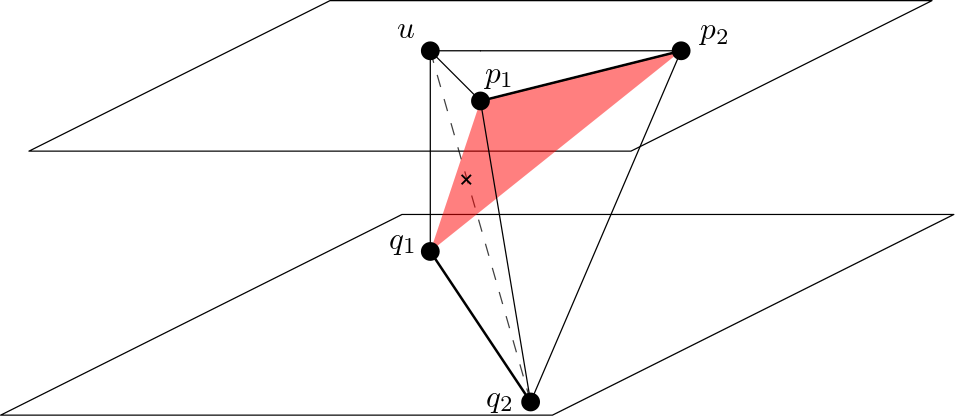
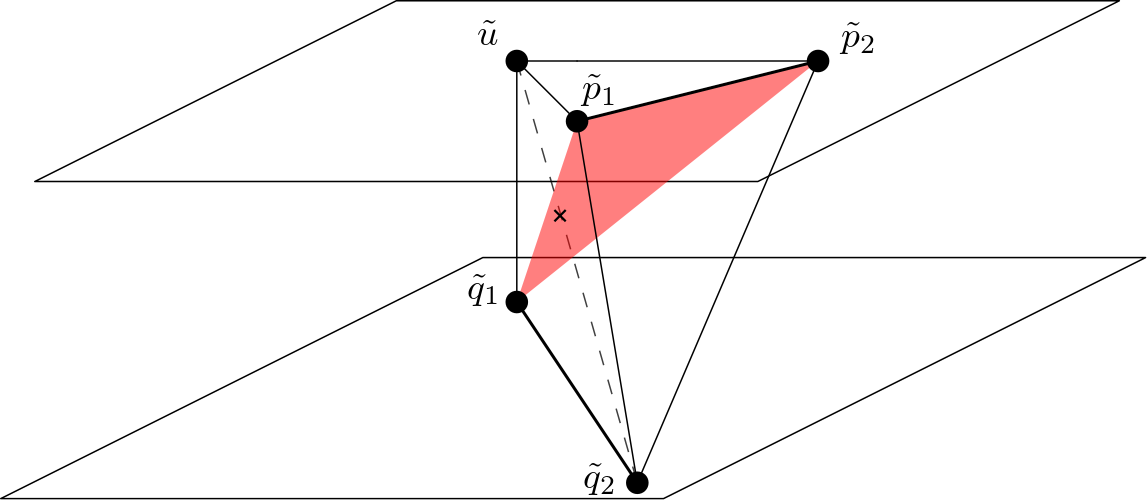
finished a pass with review Y

diff --git a/unimodular-covers-CombTheory-reviewing.tex b/unimodular-covers-CombTheory-reviewing.tex
@@ -128,7 +128,8 @@ We show that the following classes of lattice polytopes have unimodular covers, 
 
 \section{Introduction}
 
-A lattice polytope $P\subset \R^d$ has the \emph{integer decomposition property} if for every positive integer $n$, every lattice point $p \in nP\cap \Z^d$ can be written as a sum of $n$ lattice points in $P$. We abbreviate this by saying that ``$P$ is IDP''. Being IDP is interesting in the context of  both enumerative combinatorics (Ehrhart theory) and algebraic geometry (normality of toric varieties). It falls into a hierarchy of several properties each stronger than the previous one; see, e.g., \cite[Section 2.D]{BGbook}, \cite[Sect. 1.2.5]{HPPS-survey}, \cite[p. 2097]{mfo2004}, \cite[p. 2313]{mfo2007}.
+A lattice polytope $P\subset \R^d$ has the \emph{integer decomposition property} if for every positive integer $n$, every lattice point $p \in nP\cap \Z^d$ can be written as a sum of $n$ lattice points in $P$. We abbreviate this by saying that ``$P$ is IDP''. Being IDP is interesting in the context of  both enumerative combinatorics (Ehrhart theory) and algebraic geometry (projective normality of toric
+varieties). It falls into a hierarchy of several properties each stronger than the previous one; see, e.g., \cite[Section 2.D]{BGbook}, \cite[Sect. 1.2.5]{HPPS-survey}, \cite[p. 2097]{mfo2004}, \cite[p. 2313]{mfo2007}.
 Let us here only mention that
 \[
 P \text{ has a unimodular triangulation}\Rightarrow
@@ -160,8 +161,8 @@ Every smooth lattice polytope is IDP.
 \end{enumerate}
 \end{conjecture}
 
-When the normal fan of a polytope $Q$ refines that of another polytope $P$, as in the second conjecture, we say that $P$ \emph{is a weak Minkowski summand of $Q$}, since this is easily seen to be equivalent to the existence of a polytope $P'$ such that $P+P' = k Q$ for some dilation constant $k>0$.
-This property has the following algebraic implication for the projective toric variety $X_Q$: $P$ is a weak Minkowski summand of $Q$ if and only if the Cartier divisor defined by $P$ on  $X_Q$ is \emph{numerically effective}, or ``nef'' (see~\cite[Cor.~6.2.15, Prop.~6.3.12]{CLS}, but observe that what we here call  ``weak Minkowski summand'' is simply called ``Minkowski summand'' there). 
+When the normal fan of a polytope $Q$ refines that of another polytope $P$, as in the second conjecture, we say that $P$ \emph{is a weak Minkowski summand of $Q$}, since this is easily seen to be equivalent to the existence of a polytope $P'$ such that $P+P' = k Q$ for some dilation constant $k>0$. \Giulia{RefY says to add the definition of Minkowski sum here, rather than have the definition in section 3; I think it would break up the flow of the introduction. Perhaps a compromise is to add a comment like, "where + denotes the Minkowski sum defined in Section 3". Then again, the Cayley sum is defined both later in the intro and in section 3. What do you think?}
+This property has the following algebraic implication for the projective toric variety $X_Q$: $P$ is a weak Minkowski summand of $Q$ if and only if the Cartier divisor defined by $P$ on  $X_Q$ is \emph{numerically effective}, or ``nef'' (see~\cite[Cor.~6.2.15, Thm.~6.3.12]{CLS}, but observe that what we here call  ``weak Minkowski summand'' is called ``$\N$-Minkowski summand'' there). 
 
 
 \medskip 
@@ -171,7 +172,7 @@ with special attention to dimension $3$ (in dimension 2 is it straightforward th
 For example,  very recently
 Beck et al.~\cite{BHHHJKM2019} proved that all smooth centrally symmetric $3$-polytopes are IDP.
 More precisely, they show that any such polytope can be covered by lattice 
-parallelepipeds and unimodular simplices, both of which are trivially IDP.
+parallelepipeds (affine images of $3$-cubes) and unimodular simplices, both of which are trivially IDP.
 %
 In \Cref{sec:parallelepipeds} we show:
 
@@ -204,9 +205,9 @@ The two-dimensional case of \Cref{conj:Oda}\eqref{itm:mixedIDP} is known to hold
 An alternative approach to \Cref{conj:Oda}\eqref{itm:mixedIDP} is via Cayley sums, which we discuss in  \Cref{sec:cayley}. 
 Recall that the \emph{Cayley sum} of two lattice polytopes $P,Q\subset \R^d$ is the lattice polytope
 \[
-\cayley(P,Q) := \conv(P\times\{0\} \cup Q \times \{1\}) \subset \R^3.
+\cayley(P,Q) := \conv(P\times\{0\} \cup Q \times \{1\}) \subset \R^{d+1}.
 \]
-We normally require $\cayley(P,Q)$ to be full-dimensional (otherwise we can delete coordinates) but this does not need $P$ and $Q$ to be full-dimensional. It only requires the linear subspaces parallel to them to span $\R^d$.
+We normally require $\cayley(P,Q)$ to be full-dimensional (otherwise we can delete coordinates) but $P$ or $Q$ do not necessarily need to be fulldimensional. We only require the linear subspaces parallel to them to span $\R^d$.
 
 As we note in \Cref{prop:mixedIDP}, if the Cayley sum of $P$ and $Q$ is IDP then the pair $(P,Q)$ is IDP.
 Hence, the following statement proved in \Cref{sec:cayley} is stronger than the afore-mentioned result of \cite{Fakhruddin,HNPS2008,Ogata}:
@@ -239,13 +240,13 @@ The main tool for the proof of \Cref{thm:parallelepipeds} is what we call the pa
 
 \begin{definition}
 \label{def:circunpara}
-Let $T$ be a tetrahedron with vertices $p_1$, $p_2$, $p_3$, and $p_4$. Consider the points $q_i= \frac12 (p_1+p_2+p_3+p_4) - p_i$, $i\in [4]$, and let
+Let $T$ be a tetrahedron with vertices $p_1$, $p_2$, $p_3$, and $p_4$. Consider the points $q_i= \frac12 (p_1+p_2+p_3+p_4) - p_i$ for each $i\in \{1,2,3,4\}$, and let
 \[
-C(T)=\conv(p_i,q_i: i\in[4]).
+C(T)=\conv(p_i,q_i: i\in\{1,2,3,4\}).
 \] 
-$C(T)$ is a parallelepiped with facets $\conv(p_i, p_j, q_k, q_l)$ for all choices of $\{i,j,k,l\}=[4]$. We call it the \emph{parallelepiped circumscribed} to $T$.
+$C(T)$ is a parallelepiped with facets $\conv(p_i, p_j, q_k, q_l)$ for all choices of $\{i,j,k,l\}=\{1,2,3,4\}$. We call it the \emph{parallelepiped circumscribed} to $T$.
 
-For each $i \in [4]$, let $T_i=\conv(q_i, p_j, p_k, p_l)$, with $\{i,j,k,l\}=[4]$; we call these $T_i$ the \emph{corner tetrahedra} of $C(T)$. Together with $T$ they triangulate $C(T)$.
+For each $i \in \{1,2,3,4\}$, let $T_i=\conv(q_i, p_j, p_k, p_l)$, with $\{i,j,k,l\}=\{1,2,3,4\}$; we call the $T_i$ \emph{corner tetrahedra} of $C(T)$. Together with $T$ they triangulate $C(T)$.
 \end{definition}
 
 Modulo an affine transformation, the situation of $T$ and $C(T)$ is exactly that of the regular tetrahedron inscribed in a cube; see \Cref{fig:circumscribed_parall}. 
@@ -256,6 +257,7 @@ Modulo an affine transformation, the situation of $T$ and $C(T)$ is exactly that
 \label{fig:circumscribed_parall}
 \end{figure}
 
+Observe that the points $q_i$ need not be lattice points. However, the following lemma shows that we can find lattice points in each corner tetrahedron.
 \begin{lemma}
 \label{lemma:corner}
 Let $T=\conv\{p_1,p_2,p_3,p_4\}$ be an empty lattice tetrahedron that is not unimodular. Let $C(T)$ be the parallelepiped circumscribed to $T$ and let $T_1, T_2,T_3$ and $T_4$ be the corresponding corner tetrahedra in $C(T)$. Then, every $T_i$ contains at least one lattice point different from $\{p_1,\dots,p_4\}$.
@@ -291,13 +293,13 @@ Now, this implies that the quadrilateral $\conv(p_1q_4p_2q_3)$ contains a fundam
 
 \begin{lemma}
 \label{lemma:3<4}
-Let $P$ be a lattice parallelepiped and let $T\subset P$ be a tetrahedron. Then, at least one of the four corner tetrahedra $T_i$ of the circumscribed parallelogram $C(T)$ is fully contained in $P$.
+Let $P$ be a lattice parallelepiped and let $T\subset P$ be a tetrahedron. Then, at least one of the four corner tetrahedra $T_i$ of the circumscribed parallelepiped $C(T)$ is fully contained in $P$.
 \end{lemma}
 
 \begin{proof}
 Let us denote the vertices of $T$ by $p_1, p_2, p_3, p_4$ and the vertices of $C(T)$ not in $T$ by $q_1, q_2, q_3, q_4$, with the conventions of \Cref{def:circunpara}. 
 
-We call \emph{band} any region of the form $f^{-1}([\alpha,\beta])$ for some functional $f\in (\R^3)^*$ and closed interval $[\alpha,\beta]\subset \R$.
+We call \emph{band} any region of the form $f^{-1}([\alpha,\beta])$ for some functional $f\in (\R^3)^*\setminus \{0\}$ and closed interval $[\alpha,\beta]\subset \R$.
 We claim that any band containing $T$ must contain at least three of the $q_i$s. 
 This claim implies that the parallelepiped $P$, which is the intersection of three bands, contains at least one of the $q_i$s and hence it fully contains the corresponding $T_i$.
 
@@ -307,7 +309,7 @@ Without loss of generality, say $f(q_1)<\alpha$. Then the equalities $q_1+q_2=p_
 \label{eq:first}
 f(q_2) = f(p_3+p_4-q_1) = f(p_3)+f(p_4)-f(q_1) > 2\alpha-\alpha=\alpha,\\
 \label{eq:second}
-f(q_2) = f(q_2+p_2-p_1) = f(q_2)+(f(p_2)-f(p_1)) < \alpha + (\beta-\alpha) = \beta,
+f(q_2) = f(q_1+p_1-p_2) = f(q_1)+(f(p_1)-f(p_2)) < \alpha + (\beta-\alpha) = \beta,
 \end{gather}
 so that $q_2 \in B$.
 
@@ -317,13 +319,13 @@ Inequality \eqref{eq:first} also implies
 f(q_1) <  f(p_i) < f(q_2), \quad\text{ for $i=3,4$}.
 \end{equation}
 
-The translation of vector $\frac12 (p_1+p_2-p_3-p_4)$ sends $q_1,q_2,p_3,p_4$ to $p_2,p_1,q_4,q_3$ (in this order). By applying this to inequality \eqref{eq:third}, we obtain
+The translation by the vector $\frac12 (p_1+p_2-p_3-p_4)$ sends $q_1,q_2,p_3,p_4$ to $p_2,p_1,q_4,q_3$ (in this order). By applying this to inequality \eqref{eq:third}, we obtain
 \[
 \alpha \le f(p_2) < f(q_i) < f(p_1) \le \beta, \quad\text{ for $i=3,4$},
 \]
 so that $q_3,q_4 \in B$.
 %
-This finishes the proof of the claim, and of the lemma.
+This concludes the proof of the claim, and of the lemma.
 
 \end{proof}
 
@@ -332,7 +334,7 @@ This finishes the proof of the claim, and of the lemma.
 \label{coro:coverpara}
 Let $T$ be an empty lattice tetrahedron contained in a lattice parallelepiped $P$. Then, $T$ can be covered by unimodular tetrahedra contained in $P$.
 \end{corollary}
-
+\giulia{I would ignore comment Y.16, where if I understand correctly a different proof idea is suggested...}
 \begin{proof}
 We proceed by induction on the (normalized) volume of $T$, which is a positive integer. If this volume equals $1$ then $T$ is unimodular and there is nothing to prove, so we assume $T$ is not unimodular. Let $p_1, p_2, p_3, p_4$ denote the vertices of $T$.
 
@@ -345,7 +347,7 @@ S_2=\conv(p_1,p_3,p_4, u),
 S_3=\conv(p_1,p_2,p_4, u).
 \]
 
-Each of the tetrahedra $S_i$ has lattice volume strictly smaller than $T$ because, for each $i$, $p_i$ is the unique point of $C(T)$ maximizing the distance to the opposite facet $\conv(p_j,p_k,p_l)$ of $T$. Thus, $S_1$, $S_2$ and $S_3$ cover $T$ and have volume strictly smaller than $T$. The $S_i$ may not be empty, but we can triangulate them into empty tetrahedra, which by inductive hypothesis they can be covered unimodularly.
+Each of the tetrahedra $S_i$ has lattice volume strictly smaller than $T$ because, for each $i$, $p_i$ is the unique point of $C(T)$ maximizing the distance to the opposite facet $\conv(p_j,p_k,p_l)$ of $T$. Thus, $S_1$, $S_2$ and $S_3$ cover $T$ and have volume strictly smaller than $T$. The $S_i$ may not be empty, but we can triangulate them into empty tetrahedra, which by inductive hypothesis can be covered unimodularly.
 \end{proof}
 
 \begin{proof}[Proof of \Cref{thm:parallelepipeds}]
@@ -357,14 +359,14 @@ Let us say that a lattice $3$-polytope $P$ \emph{has the circumscribed parallele
 contained in $P$''. 
 If this holds then $P$ has a unimodular cover, since then the proofs of \Cref{coro:coverpara} and \Cref{thm:parallelepipeds} work for $P$.
 In turn, our proof that parallelepipeds have the property (\Cref{lemma:3<4}) is based on the fact that they have only three (pairs of) normal vectors. 
-In the following two examples we show a smooth $3$-polytope and two $3$-polytope with four normal vectors that do not have the property. The latter are not IDP:
+In the following two examples we show a smooth $3$-polytope and two $3$-polytopes with four normal vectors that do not have the property. The latter are not IDP:
 
 
 
 \begin{example}[A smooth 3-polytope without the circumscribed parallelepiped property]
  Let $P$ be the Cayley embedding of a long horizontal rectangle and a long vertical rectangle. That is,
-$P=\conv([0,a]\times [0,1] \times\{0\} \cup [0,1]\times [0,b] \times\{1\})$, for big $a$ and $b$. This is smooth and contains the big empty tetrahedron $T$ with vertices (0,0,0), (a,1,0), (0,0,1), (1,b,1) which occupies most of its volume. In particular, none of the corner tetrahedra of $T$ is contained in $P$.
-\end{example}
+$P=\conv([0,a]\times [0,1] \times\{0\} \cup [0,1]\times [0,b] \times\{1\})$, for big $a$ and $b$. This is smooth and contains the big empty tetrahedron $T$ with vertices (0,0,0), (a,1,0), (0,0,1), (1,b,1) which occupies most of its volume. In particular, none of the corner tetrahedra of $T$ is contained in $P$. Another way to see this is to write explicitly the remaining vertices $q_i$ of the circumscribed parallelepiped, which are $(\frac{a+1}{2}, \frac{b+1}{2}, 1), (\frac{a+1}{2}, \frac{b+1}{2}, 0), (\frac{1-a}{2}, \frac{b-1}{2}, 1), (\frac{a-1}{2}, \frac{1-b}{2}, 1)$. None of these points are contained in $P$, and therefore none of the corner tetrahedra are either.
+\end{example}\giulia{Added the last part to answer comment Y.19}
 
 
 
@@ -379,7 +381,7 @@ P=\conv((0,1,1),(1,0,1),(1,1,0),(-1,0,0),(0,-1,0),(0,0,-1)).
 Indeed, in both polytopes the only lattice points are the six vertices and the origin. The point $(1,1,1)$ lies in the second dilation but is not the sum of two lattice points in the polytope. Hence, they are not IDP, which implies they do not admit unimodular covers.
 \end{example}
 
-An affirmative answer to the following question (weaker than the circumscribed parallelepiped property) would still  imply that smooth $3$-polytopes can be unimodularly covered, and hence\Cref{conj:Oda}\eqref{itm:smoothIDP} in dimension three is:
+An affirmative answer to the following question (weaker than the circumscribed parallelepiped property) would still  imply that smooth $3$-polytopes can be unimodularly covered, and hence~\Cref{conj:Oda}\eqref{itm:smoothIDP} in dimension three is:
 
 \begin{question}
 If $T$ is an empty tetrahedron contained in a smooth 3-polytope $P$, can one guarantee that there is a lattice point of $P$ in the circumscribed parallelepiped of $T$ (apart of the vertices of $T$)?
@@ -406,7 +408,7 @@ which easily implies:
 \begin{proposition}[see, e.g.~\protect{\cite[Thm.~0.4]{Tsuchiya}}]
 \label{prop:mixedIDP}
 If $\cayley(P,Q)$ is IDP then the pair $(P,Q)$ is mixed IDP.
-\end{proposition}
+\end{proposition} \giulia{We just called the pair IDP in the introduction... Which notation do we prefer?}
 
 The Cayley Trick also provides the following canonical bijections:
 
@@ -419,13 +421,13 @@ The Cayley Trick also provides the following canonical bijections:
 \]
 See \cite{DLRS2010} for more details on the Cayley Trick and on triangulations and polyhedral subdivisions of polytopes.
 In fact these bijections can be taken as definitions of the objects in the right-hand sides. In particular, 
-we call \emph{prod-simplices} in $P+Q$ the Minkowski sums $T_1+T_2$ where $T_1\subset P$ and $T_2\subset Q$ are simplices with complementary affine spans. A prod-simplex is \emph{unimodular} if the edge vectors from a vertex of $T_1$ and from a vertex of $T_2$ form a unimodular basis.
+we call \emph{prod-simplices} in $P+Q$ the Minkowski sums $T_1+T_2$ where $T_1\subset P$ and $T_2\subset Q$ are simplices with complementary affine spans. A prod-simplex is \emph{unimodular} if the edge vectors from any vertex of $T_1$ and from any vertex of $T_2$ form a unimodular basis.
 
 \medskip
 
-We now turn our attention to $d=2$, in order to prove \Cref{thm:cayley}. A triangulation of $\cayley(P,Q)\subset \R^3$ consists of tetrahedra of types $(1,3)$, $(2,2)$ and $(3,1)$, where the type denotes how many vertices they have in $P$ and in $Q$. Empty tetrahedra of types $(1,3)$ or $(3,1)$, which are Cayley sums of a triangle in $P$ and a point in $Q$, or viceversa, are automatically unimodular. The case that we need to study are therefore tetrahedra of type $(2,2)$, which are Cayley sums of a segment $p\subset P$ and a segment $q\subset Q$.
+We now turn our attention to $d=2$, in order to prove \Cref{thm:cayley}. A triangulation of $\cayley(P,Q)\subset \R^3$ consists of tetrahedra of types $(1,3)$, $(2,2)$ and $(3,1)$, where the type denotes how many vertices they have in $P$ and in $Q$. Empty tetrahedra of types $(1,3)$ or $(3,1)$, which are Cayley sums of a triangle in $P$ and a point in $Q$, or viceversa, are automatically unimodular. The case that we need to study are therefore tetrahedra of type $(2,2)$, which are Cayley sums of a segment $p\subset P$ and a segment $q\subset Q$. These correspond to prod-simplices of two segments in $P+Q$, which are parallelograms.
 The following lemma, whose proof we postpone to \Cref{sec:the_lemma}, is crucial to understand how to unimodularly cover these tetrahedra. 
-We use the following conventions: if $a, b$ are points, we denote by $[a,b]$ and $(a,b)$ respectively the closed and open segments with endpoints $a,b$. Given a segment $s=[a,b]$, we denote the vector $\vec s:= b-a$ and  the line spanned by $\vec s$ by $\vecline s$.
+We use the following conventions: if $a, b$ are points, we denote by $[a,b]$ and $(a,b)$ respectively the closed and open line segments with endpoints $a,b$. Given a segment $s=[a,b]$, we denote the vector $\vec s:= b-a$ and  the line spanned by $\vec s$ by $\vecline s$.
 
 \begin{lemma}
 \label{lemma:cayley}
@@ -461,23 +463,23 @@ u \in ((p_1, p_2) + \vecline q ) \cap P,
 and call $t$ the triangle $t=\conv( u,  p_1,  p_2)\subset P$.
 
 Let us denote $\tilde u$, $\tilde p_1$, $\tilde p_2$, $\tilde q_1$, $\tilde q_2$ the points corresponding to $u, p_1, p_2, q_1, q_2$ in $\cayley(P,Q)$.
-That is, $\tilde p_i = p\times\{0\}$, $\tilde q_i = p\times\{1\}$, and $\tilde u = u\times\{0\}$.
-Observe that the assumption $u\in((p_1, p_2) + \vecline q$ implies that of the segments $[u,q_i]$ crosses the triangle $\conv(p_1,p_2,q_j)$, where $\{i,j\}=\{1,2\}$, see \Cref{fig:flip}. 
+That is, $\tilde p_i = p_i\times\{1\}$, $\tilde q_i = 	q_i\times\{0\}$, and $\tilde u = u\times\{1\}$.\giulia{to match the figure, P is now at height 1 instead of 0}
+Observe that the assumption $u\in((p_1, p_2) + \vecline q$ implies that one of the segments $[u,q_i]$ crosses one of the triangles $\conv(p_1,p_2,q_j)$, where $\{i,j\}=\{1,2\}$, see \Cref{fig:flip}. 
 
 \begin{figure}[htb]
 \includegraphics[scale=.3]{flip}
-\caption{$[u,q_2]$ intersects $\conv(p_1,p_2,q_1)$}
+\caption{$[\tilde{u},\tilde{q}_2]$ intersects $\conv(\tilde{p}_1,\tilde{p}_2,\tilde{q}_1)$}
 \label{fig:flip}
-\end{figure}
+\end{figure}\giulia{added tildes to the points}
 
 In turn, this means that the polytope $\conv(\tilde u, \tilde p_1, \tilde p_2, \tilde q_1, \tilde q_2) = \cayley(t,q)$
  has the following two triangulations:
 \begin{gather*}
-\mathcal T^+:= \left\{ \cayley(p,q), \cayley(t, \{q_i\}) \right\},
+\mathcal T^+:= \left\{ \cayley(p,q), \cayley(t, \{q_j\}) \right\},
 \\
-\mathcal T^-:= \{ \cayley([p_1,u],q), \cayley([p_2,u],q), \cayley(t, \{q_j\}) \}.
+\mathcal T^-:= \{ \cayley([p_1,u],q), \cayley([p_2,u],q), \cayley(t, \{q_i\}) \}.
 \end{gather*}
-The tetrahedra $\cayley(t, \{q_j\})$ and $\cayley(t, \{q_i\})$ are unimodular, which implies that $T=\cayley(p,q)$ has volume equal to the sum of the volumes of $\cayley([p_1,u],q)$ and $\cayley([p_2,u],q)$. In particular, we have covered $T$ by the three tetrahedra in $\mathcal T^-$, which are of smaller volume and hence have unimodular covers by inductive assumption.
+The tetrahedra $\cayley(t, \{q_j\})$ and $\cayley(t, \{q_i\})$ are unimodular, which implies that $T=\cayley(p,q)$ has volume equal to the sum of the volumes of $\cayley([p_1,u],q)$ and $\cayley([p_2,u],q)$. In particular, we have covered $T$ by the three tetrahedra in $\mathcal T^-$, which are of smaller volume and hence have unimodular covers by induction hypothesis.
 \end{proof}
 
 \begin{proof}[Proof of \Cref{thm:cayley}]
@@ -531,12 +533,11 @@ kP \cap(\R^2\times\{1\}) = (k-1)Q_1 + Q_2.
 \label{sec:the_lemma}
 Let $f_q$ be the primitive lattice functional constant on $q$ and $f_p$ the one constant on $p$. We assume that $f_q(p_1) < f_q(p_2)$ and $f_p(q_1) < f_p(q_2)$.
 
-Observe that in the strip $q +\vecline p$, there is a unique lattice point on the line $f_q(x)=-1$;  indeed, since $q$ is primitive, the only way that in the strip there could be two lattice points on $f_q(x)=-1$ is if they were on the boundary of the strip, which would however imply that $p+q$ is a unimodular paralellogram, against our assumptions.
-Since translating the polytopes by lattice vectors will not result in any loss of generality, we can assume that $p_1$ is that unique lattice point. That is, $f_q(p_1)=-1$, or equivalently, the triangle $\conv(q_1, q_2, p_1)$ is unimodular. Similarly, the unique lattice point in the strip on the line $f_q(x)=1$ is then $q_1+q_2 -p_1$.
+We can assume that $q_1$ is the origin, and thus $f_q(q)=0$. Observe that in the strip $q +\vecline p$, there is a unique lattice point on the line $f_q(x)=-1$;  indeed, since $q$ is primitive, the only way that in the strip there could be two lattice points on $f_q(x)=-1$ is if they were on the boundary of the strip, which would however imply that $p+q$ is a unimodular paralellogram, against our assumptions.
+Since translating the polytopes independently by lattice vectors will not result in any loss of generality, we can assume that $p_1$ is that unique lattice point. That is, $f_q(p_1)=-1$, or equivalently, the triangle $\conv(q_1, q_2, p_1)$ is unimodular. Similarly, the unique lattice point in the strip on the line $f_q(x)=1$ is then $q_1+q_2 -p_1$.
 
-We let $H_1=\{f_q(x) \leq 0\}$ and $H_2=\{f_q(x) \geq 0\}$; similarly let $V_1=\{f_p(x) \leq 0\}$ and $V_2=\{f_p(x) \geq 0\}$. 
-In the figures, we draw $p$ as a vertical segment and $q$ as a horizontal one, so that $H_i \cap V_j$ are the four quadrants. 
-See \Cref{fig:setup}.
+We let $H_1=\{f_q(x) \leq 0\}$ and $H_2=\{f_q(x) \geq 0\}$; similarly let $V_1=\{f_p(x) \leq f_p(p)\}$ and $V_2=\{f_p(x) \geq f_p(p)\}$. 
+In the figures, we draw $p$ as a vertical segment and $q$ as a horizontal one, so that $H_i \cap V_j$ are the four quadrants (see \Cref{fig:setup}). This is always possible via an affine transformation. \Giulia{I'm not sure this last sentence addition is necessary, but I thought it would help the ref clear up confusion (Y.31) about p being a vertical segment-sure, this isn't possible with a unimod transformation, but we don't need to fix the lattice...}
 %
 \begin{figure}[htb]
 \includegraphics[scale=.3]{setup.png}
@@ -578,7 +579,7 @@ f_q(r_2) \geq f_q(p_2).
 Observe that a priori one of $l$ and $r$ can coincide with $p$, if this is on the boundary of $P$, and similarly one of $t,b$ might be $q$, if this is on the boundary of $Q$. 
 
 
-\begin{claim}
+\begin{claim}\label{claim:width}
 The following inequalities hold, 
 \begin{align*}
 \width_{f_q}(\ell) , 
@@ -592,7 +593,10 @@ Each inequality is strict, unless the segment in question coincides with $p$ or 
 \begin{proof}
 The inequality $\geq w$ follows in each case from \eqref{eq:widthp} and \eqref{eq:widthq}.
 
-If one of the inequalities, say the one for $\ell$, is not strict, then $\ell$ has one endpoint on each of the boundary lines of $(p + \vecline q)$. Unless $\ell = p$, one of the endpoints of $\ell$ is not an endpoint of $p$, say $l_1 \neq p_1$. Thus the triangle $T=\conv(p_2, p_1, l_1)$ is contained in $P$ and its edge $[p_1, l_1]$ is an integer dilation of $q$. Since $\width_{f_q}(T) =w \geq 2$, $T$ must contain a lattice point in the interior of the strip.
+If one of the inequalities, say the one for $\ell$, is not strict, then $\ell$ has one endpoint on each of the boundary lines of $(p + \vecline q)$. Unless $\ell = p$, one of the endpoints of $\ell$ is not an endpoint of $p$, say $l_1 \neq p_1$. Thus the triangle $T=\conv(p_2, p_1, l_1)$ is contained in $P$ and its edge $[p_1, l_1]$ is an integer dilation of $q$. 
+
+Since $T$ contains $p$ and a copy of $q$, its area (normalized to a fundamental domain) is $w/2 \geq 1$, and by Pick's theorem it must contain a lattice point other than its vertices. Since $p$ and $q$ are primitive, this lattice point must lie in the interior of the strip.\giulia{added an explanation here, according to the suggestion Y.32}
+%Since $\width_{f_q}(T) =w \geq 2$, $T$ must contain a lattice point in the interior of the strip.
 \end{proof}
 
 
@@ -601,14 +605,12 @@ If one of the inequalities, say the one for $\ell$, is not strict, then $\ell$ h
 $f_q(b_2-b_1)$ and $f_q(t_2 - t_1)$ are non-zero and have the same sign. That is, $f_q$ achieves its maximum over $b$ and over $t$ on the same halfplane $V_1$ or $V_2$.
 \end{claim}
 
-\giulia{unless b or t are equal to q}
-
-
-
 \begin{proof}
-Suppose by contradiction that the maximum of $f_q$ on $t$  lies in $V_1$ and that the maximum on $b$ lies in $V_2$. 
-
-Then $Q \cap V_2$ is contained in the open strip $\{-1<f_q(x)<w-1\}$, of width $w$. This cannot contain a translated copy of $r$, since $\width_{f_q}(r) \geq w$, see \Cref{fig:claim2}. This is a contradiction, since $P$ is a Minkowski summand of $Q$ and therefore $Q$ must have an edge parallel to $t$.
+Were $f_q(b_2-b_1)$ or $f_q(t_2 - t_1)$ zero, that is, $b$ or $t$ horizontal, it would have to contain a translate of $q$ whose endpoints are necessarily on the boundary of the strip. The left (or right) endpoint of this translate and of $q$ are lattice points lying on a line parallel to $p$, and since both this translate of $q$ and $q$ cross the segment $p$, they force $p$ to contain a lattice point in the interior, a contradiction to $p$ being primitive.  
+	
+Suppose by contradiction that the maximum of $f_q$ on $t$  lies in $V_1$ and that the maximum on $b$ lies in $V_2$. Observe that both $t$ and $b$ must intersect $p$, otherwise $p_1$ or $p_2$ are the lattice points we are looking for in $Q$.
+%
+Then $Q \cap V_2$ is contained in the open strip $\{-1<f_q(x)<w-1\}$, of width $w$. This cannot contain a translated copy of $r$, since $\width_{f_q}(r) \geq w$, see \Cref{fig:claim2}. This is a contradiction, since $P$ is a weak Minkowski summand of $Q$ and therefore $Q$ must have an edge parallel to $r$.
 \end{proof}
 
 \begin{figure}[htb]
@@ -621,15 +623,15 @@ We assume without loss of generality that the maximum on $t$ (and hence on $b$) 
 
 \begin{claim}
 \label{claim:r}
-Assume without loss of generality that $b$ and $t$ either are parallel or their affine spans cross in $V_2$ (if they cross in $V_1$, the same claim can be reworded for the segment $l$). Then, 
+Assume without loss of generality that $b$ and $t$ either are parallel or their affine spans cross in $V_2$ (if they cross in $V_1$, the same claim can be reworded for $V_1$ and $l$). Then, 
 \begin{enumerate}
-\item The intersection of $Q$ with any line parallel to $p$ in $V_2$ has width w.r.t. $f_q$ strictly smaller than $w$.
+\item The intersection of $Q$ with any line parallel to $p$ in $V_2$ has width with respect to $f_q$ strictly smaller than $w$.
 \item $f_p(r_2) > f_p(r_1)$, that is, $f_p$ achieves its maximum over $r$ in $H_2$.
 \end{enumerate}
 \end{claim}
 
 \begin{proof}
-Both $t$ and $b$ must intersect $p$, otherwise $p_1$ or $p_2$ are the lattice points we are looking for in $Q$.  Their intersections with $p$ are thus endpoints of a segment of width w.r.t $f_q$ less than $w$, the width of $p$. Since $t$ and $b$ cross in $V_2$, the same is true for any segment parallel to $p$ contained in $Q \cap V_2$.  
+Both $t$ and $b$ must intersect $p$, as seen in the proof of \Cref{claim:b_and_t}.  Their intersections with $p$ are thus endpoints of a segment of width with respect to $f_q$ less than $w$, the width of $p$. Since $t$ and $b$ cross in $V_2$, the same is true for any segment parallel to $p$ contained in $Q \cap V_2$.  
 
 \begin{figure}[htb]
 \scalebox{.75}{\input{claim3.pdf_t}}
@@ -637,7 +639,9 @@ Both $t$ and $b$ must intersect $p$, otherwise $p_1$ or $p_2$ are the lattice po
 \label{fig:claim3}
 \end{figure}
 
-For part (b), If $f_p(r_2) \leq f_p(r_1)$, it would be impossible to fit a translated copy $r'$ of $r$ in the correct side of $Q$: $r$ would need to lie inside the triangle delimited by the affine line $\langle t \rangle$ and the inequalities $f_q(x) \geq f_q(r_1)$, $f_p(x) \leq f_p(r_1)$. However, this triangular region has width less than $w$  w.r.t. $f_q$, by combining part (a) with the fact that $f_p$ and $f_q$ increase in the same direction along $t$, see \Cref{fig:claim3}. 
+For part (2), recall that by \Cref{claim:width}, $\width_{f_q}(r) \geq w$. If $f_p(r_2) \leq f_p(r_1)$, it would be impossible to fit a translated copy $r'$ of $r$ in the correct side of $Q$: since $f_q$ increases along $t$, $r'$ has width in direction $f_q$ smaller than the segment parallel to $p$ with endpoint $r'_1$. This segment by part (1) has width less than $w$ in direction $q$, a contradiction. \giulia{simplified the proof as suggested in Y.38} 
+
+%$r'$ would need to lie inside the triangle delimited by the affine line $\langle t \rangle$ and the inequalities $f_q(x) \geq f_q(r_1)$, $f_p(x) \leq f_p(r_1)$. However, this triangular region has width less than $w$  with respect to $f_q$, by combining part (1) with the fact that $f_p$ and $f_q$ increase in the same direction along $t$, see \Cref{fig:claim3}. 
 \end{proof}
 
 The last two claims can be summarized as saying that in the pictures $b$, $t$ and $r$ have positive slope. Observe that this implies that $q$ is not in the boundary of $Q$ and $p \neq r$, so both $P$ and $Q$ are full dimensional.
@@ -647,7 +651,7 @@ Let $g$ be the primitive lattice functional constant on $[p_1, q_2]$ (and theref
 \[
 g([p_1, q_2])= g( [q_1, q_1+q_2-p_1]) -1. 
 \]
-\giulia{changed the +1 to a -1, so that the following claim is true}
+\giulia{changed the +1 to a -1, so that the inequalities in the following claim are the right way around--we had flipped everything}
 
 \begin{claim}
 \label{claim:g}
@@ -656,7 +660,7 @@ $g(t_1) > g(t_2)$, $g(b_1) > g(b_2)$, and $g(r_1) < g(r_2)$.
 
 \begin{proof}
 Since $b$ and $t$ must respectively separate $p_1$ and $q_1+q_2-p_1$ from the other two vertices of the parallelogram $\conv(q_1, p_1, q_2, q_1+q_2-p_1)$, they must respectively intersect its (parallel) edges $[p_1, q_2]$ and $[q_1, q_1+q_2-p_1]$, which implies the stated inequalities for $b$ and $t$.
-The same argument  applied to the parallelogram  $\conv(p_1, q_2, p_2, p_1+p_2-p_2)$, yields the inequalities for $\ell$ and $r$.
+The same argument  applied to the parallelogram  $\conv(p_1, q_2, p_2, p_1+p_2-q_2)$, yields the inequalities for $r$.
 \end{proof}
 
 \begin{figure}[htb]
@@ -666,12 +670,13 @@ The same argument  applied to the parallelogram  $\conv(p_1, q_2, p_2, p_1+p_2-p
 \end{figure}
 
 
-We are now ready to show a contradiction. Since the normal fan of $Q$ refines that of $P$, $Q$ must have an edge $r'$ which is a translated copy of $r$. Let $r_1'$ and $r_2'$ be its endpoints. Now consider the lattice line $d$ through $r_1'$ parallel to  $[p_1, q_2]$, that is, $g$ is constant on $d$. Let $d'$ be the parallel line defined by $g(d')=g(d)+1$. 
+We are now ready to show a contradiction. Since the normal fan of $Q$ refines that of $P$, $Q$ must have an edge $r'$ which is a translated copy of $r$. Let $r_1'$ and $r_2'$ be its endpoints. 
 
+\Giulia{Changed the proof from here}
+Consider the segment $s$ contained in $r_1' + \vecline p$ with endpoints $s_1=r_1'$ on $d$ and $s_2$ on the line spanned by $t$. The width of $s$ with respect to $g$ is $g(s_2)-g(s_1) <1$, because $s$ is shorter than $Q \cap p$, which is strictly contained between the consecutive parallel lattice lines through $p_1$ and $q_2$ and through $q_1$ and $q_1+q_2-p_1$ where $g$ is constant.
 
-Consider the segment $s$ contained in $r_1' + \vecline p$ with endpoints $s_1=r_1'$ on $d$ and $s_2$ on $d'$.  
-Since $t$ separates $q_1$ and $q_1+q_2-p_1$ and $g$ decreases from $t_1$ to $t_2$ (by \Cref{claim:g}), the inequality $g(x)< g(d')$ holds on $Q\cap V_2$,
-and in particular for $r_2'$. Since $r_2'$ is a lattice point, $g(r_2')\leq g(d)= g(r_1')$, which contradicts \Cref{claim:g}).
+We now observe that $g(r_2) < g(s_2)$, because $r_2$ lies to the right of $s_2$ ($r$ has positive slope) and below the line spanned by $t$, and $g$ decreases moving to the right along $t$ (\Cref{claim:g}). Thus $g(r_2)-g(r_1) = g(r'_2)-g(r'_1) < g(s_2)-g(s_1) <1$, that is, $g(r_2)=g(r_1)$. This contradicts \Cref{claim:g}.
+%Since $t$ separates $q_1$ and $q_1+q_2-p_1$ and $g$ decreases from $t_1$ to $t_2$ (by \Cref{claim:g}), the inequality $g(x)< g(d')$ holds on $Q\cap V_2$, and in particular for $r_2'$. Since $r_2'$ is a lattice point, $g(r_2')\leq g(d)= g(r_1')$, which contradicts \Cref{claim:g}).
 \end{proof}
 
 
